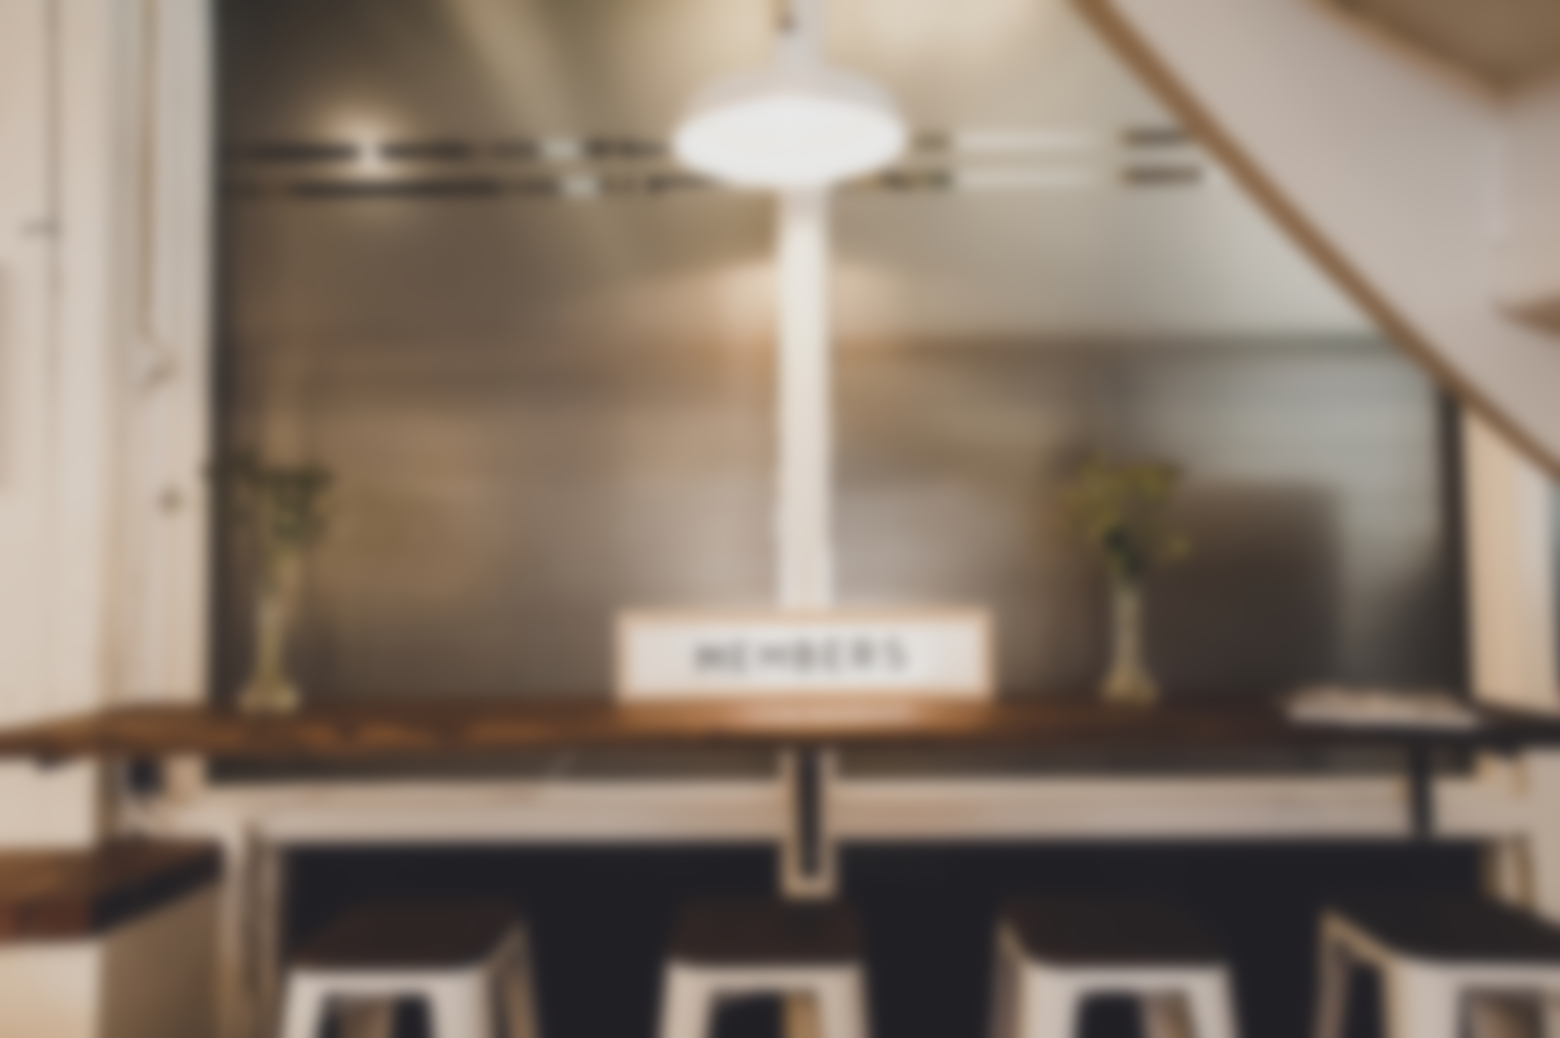
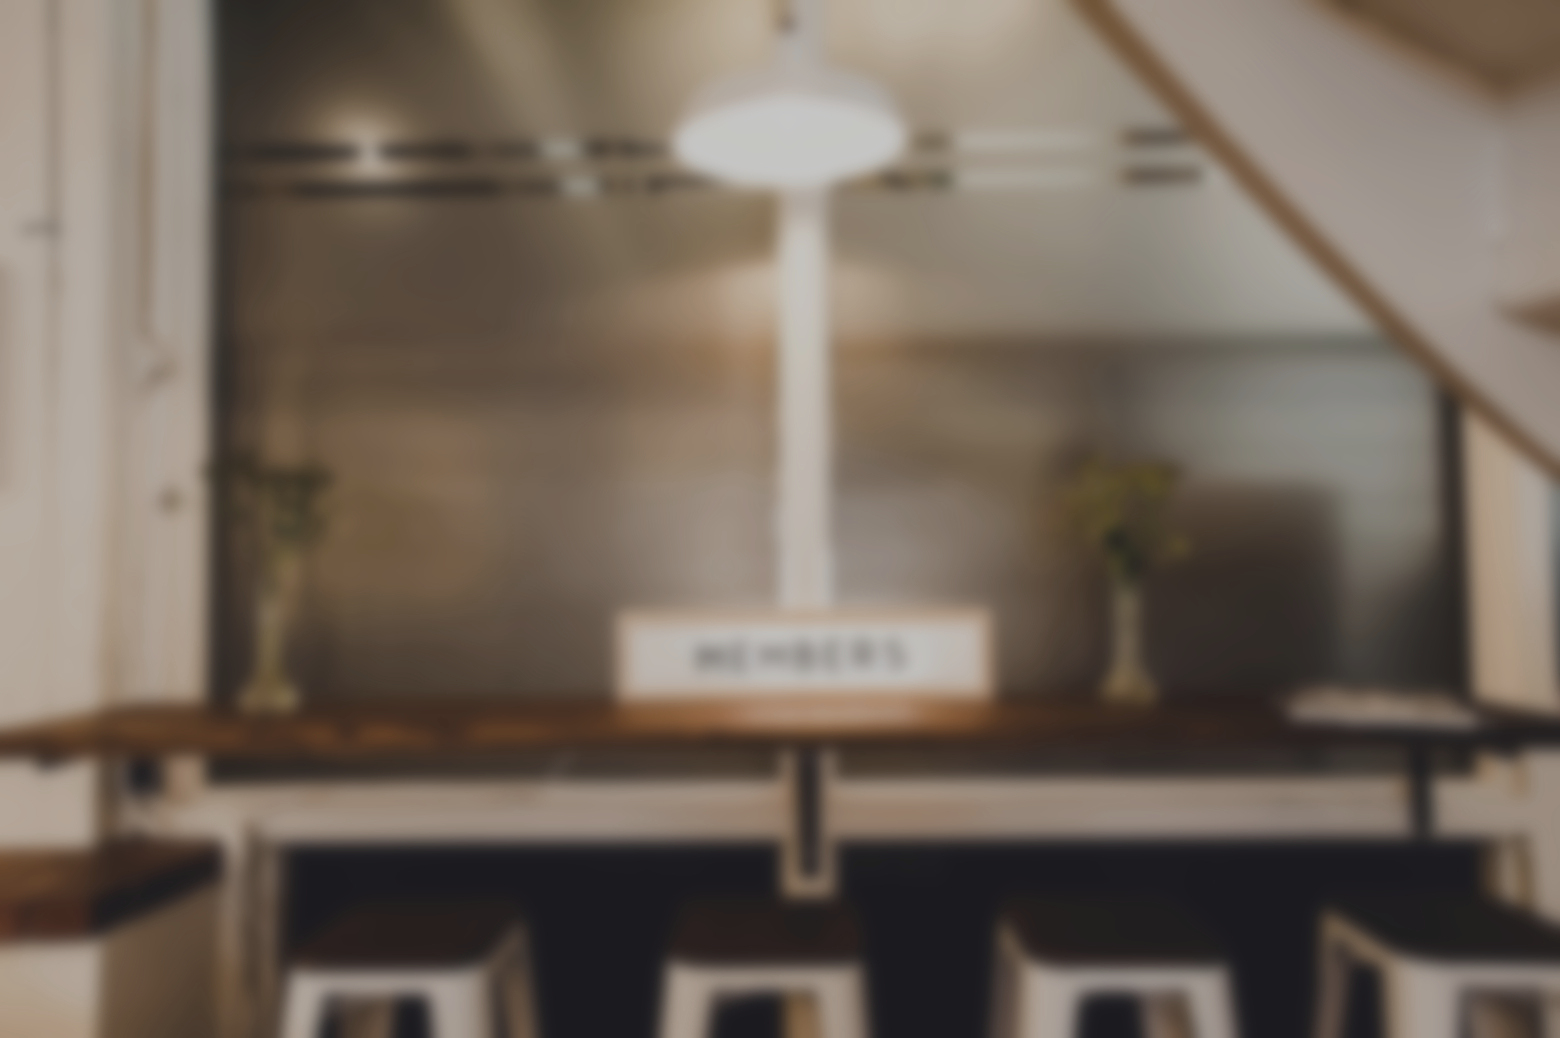
style additions, removed borders

diff --git a/app/assets/stylesheets/custom.css.scss b/app/assets/stylesheets/custom.css.scss
@@ -11,20 +11,22 @@ body {
   background-size: cover;
   font-family: georgia, serif;
   font-size: 14pt!important;
+  color: white;
 }
 
 h1, h2, h3 {
     padding-bottom: 5px;
     padding-top: 5px;
+    color: white!important;
 }
 
 
 
 .default-title {
-    color: #373737;
+
     font-family: georgia;
-    font-weight: bold;
-    letter-spacing: 1px;
+    font-weight: normal;
+    letter-spacing: 2px;
 }
 
 
@@ -34,17 +36,18 @@ h1, h2, h3 {
 }
 
 .btn.btn-default {
-    background-color: rgba(255, 255, 255, 0.6);
-    border: black 2px solid;
-    color: black;
-    font-weight: bold;
+    background: rgba(241, 196, 15, .8);
+    border-radius: 0;
+    border: 0;
+    color: white;
+    font-weight: normal;
+    font-size: 14pt;
     height: 50px;
     margin-bottom: 10px;
     margin-right: 10px;
     margin-top: 10px;
-    padding-top: 15px;
-    text-transform: uppercase;
-    width: 250px;
+    padding-top: 10px;
+    width: 270px;
     
     a:hover, a:visited, a:link {
         color: black;
@@ -55,14 +58,14 @@ h1, h2, h3 {
 }
 
 .btn.btn-default:hover {
-    background: rgba(237, 222, 93, .8);
-    border: black 2px solid;
+    background: rgba(237, 222, 93, 1);
+
 }
 
 .center-box {
-    background-color: rgba(255, 255, 255, 0.7);
+    background-color: rgba(0, 0, 0, 0.5);
     padding-bottom: 50px;
-    border: black 1px solid;
+    text-align: center;
     
 }
 
@@ -115,10 +118,10 @@ h1, h2, h3 {
 
 
 .table {
-    background-color: rgba(255, 255, 255, 0.6);
-    border: black 2px solid;
+    background-color: rgba(255, 255, 255, 0);
     margin-top: 50px;
     vertical-align: middle;
+    color: white;
      
      td {
         font-size: 12pt;
@@ -140,8 +143,4 @@ h1, h2, h3 {
 
 .uppercase {
     text-transform: uppercase;
-}
-
-.huge {
-    font-size: 2.5em;
 }

diff --git a/app/assets/stylesheets/forms.css.scss b/app/assets/stylesheets/forms.css.scss
@@ -2,19 +2,57 @@ label{
  width: 150px;
  float: left;
 }
+
 input {
-  display: inline-block;
+    display: inline-block;
+    border: 0;
+    border-bottom:1px solid white;
+    padding-top: 10px;
+    font-size: 16pt;
+    color: white;
+    background-color: transparent;
+}
+
+textarea {
+    border:1px solid white;
+    padding-top: 10px;
+    font-size: 16pt;
+    color: white;
+    background-color: transparent;
+    
 }
 
 .field {
     padding-top: 10px;
+    font-size: 16pt;
+    color: white;
+    background-color: transparent;
 }
 
 .field-wide {
     width: 500px;
+    background-color: transparent;
 }
 
 .form-group {
-    border: 1px black solid;
-    background-color: rgba(255, 255, 255, 0.6);
+    border: 1px white solid;
+    background-color: transparent;
+}
+
+ select
+    {
+        border-bottom:1px solid white;
+        border-top: 0;
+        border-left: 0;
+        border-right: 0;
+        outline:0px;
+        background-color: transparent;
+    }
+    
+
+option { 
+    /* Whatever color  you want */
+    background-color: rgba(255, 255, 255, 0.2)!important;
+    color: black;
+
 }

diff --git a/app/assets/javascripts/application.js b/app/assets/javascripts/application.js
@@ -16,3 +16,4 @@
 //= require turbolinks
 //= require typekit
 //= require_tree .
+//= require jquery-ui/autocomplete

diff --git a/app/assets/stylesheets/application.css.scss b/app/assets/stylesheets/application.css.scss
@@ -17,3 +17,5 @@
 
 @import "bootstrap-sprockets";
 @import "bootstrap";
+
+

diff --git a/app/controllers/members_controller.rb b/app/controllers/members_controller.rb
@@ -6,6 +6,7 @@ class MembersController < ApplicationController
   # GET /members.json
   def index
     @members = Member.all.order('lower(last_name) ASC')
+  
   end
   
   def inactive

diff --git a/app/models/checkin.rb b/app/models/checkin.rb
@@ -4,4 +4,8 @@ class Checkin < ActiveRecord::Base
     require 'time'
     
     belongs_to :member
+    
+    
+ 
+    
 end

diff --git a/app/models/member.rb b/app/models/member.rb
@@ -39,6 +39,5 @@ class Member < ActiveRecord::Base
     end
     
 
-    
    
 end
